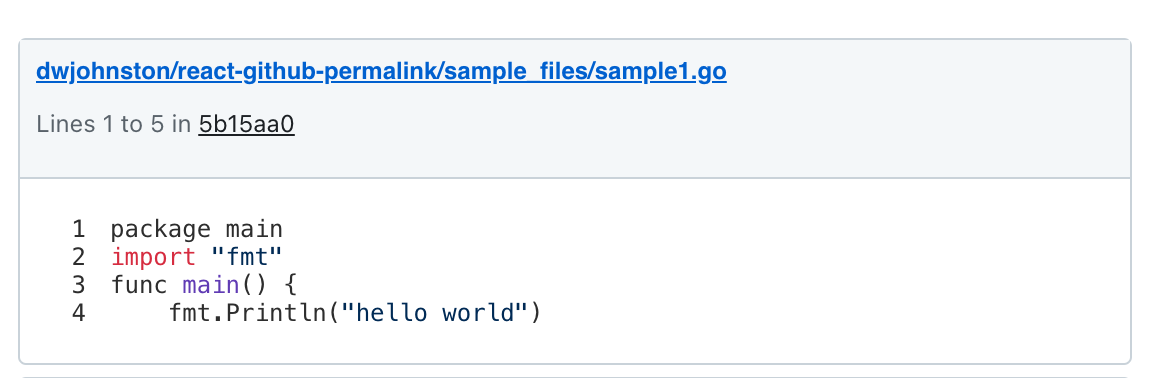
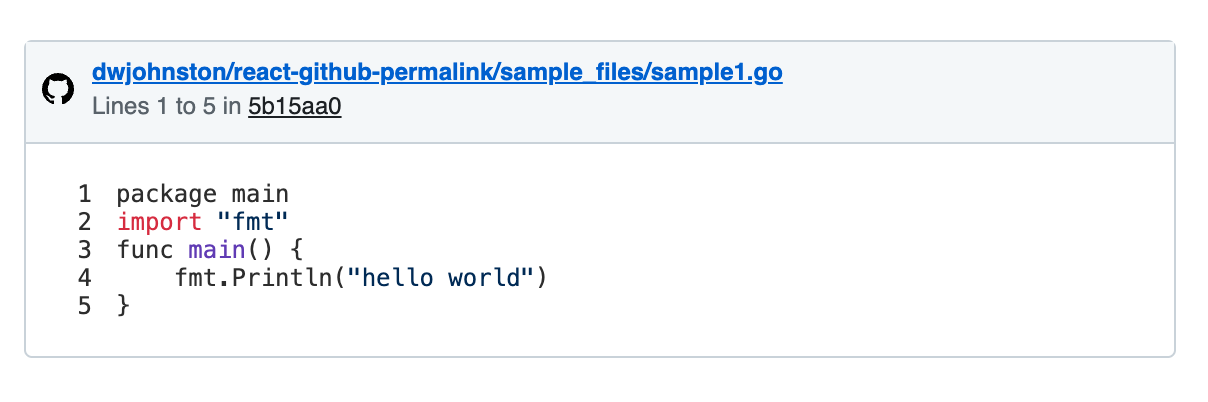
Add github svg, add repo info to GithubIssueLink.

diff --git a/src/GithubIssueLink/GithubIssueLink.tsx b/src/GithubIssueLink/GithubIssueLink.tsx
@@ -4,6 +4,7 @@ import { githubGist } from 'react-syntax-highlighter/dist/cjs/styles/hljs';
 import { exhaustiveFailure } from "../utils/exhaustiveFailure";
 import { GithubPermalinkDataResponse, GithubPermalinkContext, GithubIssueLinkDataResponse } from "../GithubPermalinkContext";
 import { ErrorMessages } from "../ErrorMessages/ErrorMessages";
+import { GithubSvg } from "../GithubSvg/GithubSvg";
 
 type GithubIssueLinkProps = {
   issueLink: string;
@@ -32,13 +33,22 @@ export function GithubIssueLink(props: GithubIssueLinkProps) {
 
   if (data.status === "ok") {
     return <GithubIssueLinkInner {...props} header={<>
-      <p><span className="react-github-issuelink-title">{data.issueTitle}</span><span className="react-github-issuelink-number"> #{data.issueNumber}</span> </p>
+      <div className="react-github-issuelink-repo">
+        <GithubSvg />
+        <p>
+          {data.owner}/{data.repo}
+        </p>
+      </div>
 
-      {data.issueState === "open" ? <div className="react-github-issuelink-status open"><svg aria-hidden="true" height="12" viewBox="0 0 16 16" version="1.1" width="12" data-view-component="true" >
-        <path d="M8 9.5a1.5 1.5 0 1 0 0-3 1.5 1.5 0 0 0 0 3Z"></path><path d="M8 0a8 8 0 1 1 0 16A8 8 0 0 1 8 0ZM1.5 8a6.5 6.5 0 1 0 13 0 6.5 6.5 0 0 0-13 0Z"></path>
-      </svg><span> Open</span></div> : <div className="react-github-issuelink-status closed"><svg aria-hidden="true" height="12" viewBox="0 0 16 16" version="1.1" width="12" data-view-component="true" >
-        <path d="M11.28 6.78a.75.75 0 0 0-1.06-1.06L7.25 8.69 5.78 7.22a.75.75 0 0 0-1.06 1.06l2 2a.75.75 0 0 0 1.06 0l3.5-3.5Z"></path><path d="M16 8A8 8 0 1 1 0 8a8 8 0 0 1 16 0Zm-1.5 0a6.5 6.5 0 1 0-13 0 6.5 6.5 0 0 0 13 0Z"></path>
-      </svg><span> Closed</span></div>}
+      <div className="react-github-issuelink-body">
+        <p><span className="react-github-issuelink-title">{data.issueTitle}</span><span className="react-github-issuelink-number"> #{data.issueNumber}</span> </p>
+
+        {data.issueState === "open" ? <div className="react-github-issuelink-status open"><svg aria-hidden="true" height="12" viewBox="0 0 16 16" version="1.1" width="12" data-view-component="true" >
+          <path d="M8 9.5a1.5 1.5 0 1 0 0-3 1.5 1.5 0 0 0 0 3Z"></path><path d="M8 0a8 8 0 1 1 0 16A8 8 0 0 1 8 0ZM1.5 8a6.5 6.5 0 1 0 13 0 6.5 6.5 0 0 0-13 0Z"></path>
+        </svg><span> Open</span></div> : <div className="react-github-issuelink-status closed"><svg aria-hidden="true" height="12" viewBox="0 0 16 16" version="1.1" width="12" data-view-component="true" >
+          <path d="M11.28 6.78a.75.75 0 0 0-1.06-1.06L7.25 8.69 5.78 7.22a.75.75 0 0 0-1.06 1.06l2 2a.75.75 0 0 0 1.06 0l3.5-3.5Z"></path><path d="M16 8A8 8 0 1 1 0 8a8 8 0 0 1 16 0Zm-1.5 0a6.5 6.5 0 1 0-13 0 6.5 6.5 0 0 0 13 0Z"></path>
+        </svg><span> Closed</span></div>}
+      </div>
     </>}>
     </GithubIssueLinkInner>
 
@@ -55,7 +65,11 @@ function GithubIssueLinkInner(props: PropsWithChildren<{
 } & GithubIssueLinkProps>) {
   return <div className={`react-github-issuelink ${props.className}`}>
     <a href={props.issueLink}>
+
+
       <div className="header">
+
+
         {props.header ?? <a href={props.issueLink} className="file-link">{props.issueLink}</a>}
       </div>
       {props.children}

diff --git a/src/GithubPermalink/GithubPermalink.tsx b/src/GithubPermalink/GithubPermalink.tsx
@@ -1,14 +1,15 @@
-import { PropsWithChildren,  useContext, useEffect, useState } from "react";
+import { PropsWithChildren, useContext, useEffect, useState } from "react";
 import ReactSyntaxHighlighter from "react-syntax-highlighter";
 import { githubGist } from 'react-syntax-highlighter/dist/cjs/styles/hljs';
 import { GithubPermalinkDataResponse, GithubPermalinkContext } from "../GithubPermalinkContext";
 import { ErrorMessages } from "../ErrorMessages/ErrorMessages";
+import { GithubSvg } from "../GithubSvg/GithubSvg";
 
 type GithubPermalinkProps = {
   permalink: string;
   className?: string;
-}; 
-export function GithubPermalink(props: GithubPermalinkProps ) {
+};
+export function GithubPermalink(props: GithubPermalinkProps) {
 
   const { permalink } = props;
   const [data, setData] = useState(null as null | GithubPermalinkDataResponse)
@@ -42,18 +43,24 @@ export function GithubPermalink(props: GithubPermalinkProps ) {
 
   }
 
-    return <GithubPermalinkInner {...props}>
-      <ErrorMessages data={data}/>
-    </GithubPermalinkInner>
+  return <GithubPermalinkInner {...props}>
+    <ErrorMessages data={data} />
+  </GithubPermalinkInner>
 }
 
 
 function GithubPermalinkInner(props: PropsWithChildren<{
   header?: React.ReactNode
-}  & GithubPermalinkProps>) {
+} & GithubPermalinkProps>) {
   return <div className={`react-github-permalink ${props.className}`}>
     <div className="header">
-      {props.header ??  <a href={props.permalink} className="file-link">{props.permalink}</a>}
+      <div>
+
+        <GithubSvg />
+      </div>
+      <div>
+        {props.header ?? <a href={props.permalink} className="file-link">{props.permalink}</a>}
+      </div>
     </div>
     {props.children}
   </div>

diff --git a/src/GithubPermalink/github-permalink.css b/src/GithubPermalink/github-permalink.css
@@ -1,5 +1,5 @@
 
-.react-github-issuelink .header {
+.react-github-issuelink .react-github-issuelink-body {
     font-size: 16px;
     color: rgb(31, 35, 40);
     display: flex; 
@@ -8,6 +8,9 @@
     align-items: center;
     text-decoration: none;
 }
+.react-github-issuelink-body p {
+    margin: 0;
+}
 
 .react-github-issuelink a {
     text-decoration: none;
@@ -15,13 +18,24 @@
 
 }
 
-.react-github-issuelink a:hover .react-github-issuelink-title, .react-github-issuelink a:hover .react-github-issuelink-number  {
+.react-github-issuelink a:hover .react-github-issuelink-title,
+ .react-github-issuelink a:hover .react-github-issuelink-number  {
     text-decoration: underline;
 }
 
 
 .react-github-issuelink-number {
     color: rgb(101, 109, 118);
+}
+
+.react-github-issuelink-repo {
+    font-size: 12px; 
+    font-weight: bold;
+    display: flex;
+    flex-flow: row nowrap;
+    align-items: center;
+    gap: 0.75em;
+    text-decoration: underline;
 }
 
 .react-github-issuelink-status  {
@@ -68,6 +82,14 @@
     border-color: rgb(208, 215, 222); 
     border-style: solid; 
     border-width: 1px; 
+
+}
+
+.react-github-permalink .header {
+    display: flex; 
+    flex-flow: row nowrap;
+    gap: 0.75em;
+    align-items: center;
 }
 
 .react-github-permalink .header, .react-github-issuelink .header{

diff --git a/src/GithubSvg/GithubSvg.tsx b/src/GithubSvg/GithubSvg.tsx
@@ -1,0 +1,10 @@
+export function GithubSvg(props: {
+    size?: number
+}) {
+
+    const size = props.size ?? 16; 
+
+    return <svg height={`${size}`} width={`${size}`}aria-hidden="true" viewBox="0 0 16 16" version="1.1">
+    <path d="M8 0c4.42 0 8 3.58 8 8a8.013 8.013 0 0 1-5.45 7.59c-.4.08-.55-.17-.55-.38 0-.27.01-1.13.01-2.2 0-.75-.25-1.23-.54-1.48 1.78-.2 3.65-.88 3.65-3.95 0-.88-.31-1.59-.82-2.15.08-.2.36-1.02-.08-2.12 0 0-.67-.22-2.2.82-.64-.18-1.32-.27-2-.27-.68 0-1.36.09-2 .27-1.53-1.03-2.2-.82-2.2-.82-.44 1.1-.16 1.92-.08 2.12-.51.56-.82 1.28-.82 2.15 0 3.06 1.86 3.75 3.64 3.95-.23.2-.44.55-.51 1.07-.46.21-1.61.55-2.33-.66-.15-.24-.6-.83-1.23-.82-.67.01-.27.38.01.53.34.19.73.9.82 1.13.16.45.68 1.31 2.69.94 0 .67.01 1.3.01 1.49 0 .21-.15.45-.55.38A7.995 7.995 0 0 1 0 8c0-4.42 3.58-8 8-8Z"></path>
+</svg>
+}

diff --git a/src/GithubPermalinkContext.tsx b/src/GithubPermalinkContext.tsx
@@ -29,6 +29,8 @@ export type GithubIssueLinkDataResponse = {
     issueTitle: string; 
     issueNumber: string; 
     issueState: "open" | "closed"; 
+    owner: string; 
+    repo: string; 
     status: "ok"
 } | ErrorResponses; 
 
@@ -114,7 +116,9 @@ async function defaultGetIssueFn(issueLink: string, githubToken?: string): Promi
         issueTitle: issueJson.title,
         issueNumber: config.issue,
         issueState: issueJson.state,
-        status: "ok"
+        status: "ok", 
+        owner: config.owner, 
+        repo: config.repo
     }
 }
 

diff --git a/src/GithubIssueLink/GithubIssueLink.stories.tsx b/src/GithubIssueLink/GithubIssueLink.stories.tsx
@@ -28,6 +28,6 @@ export const WithBackground: Story = {
 
 
 export const WithToken: Story = {
-  render: () => <GithubPermalinkProvider githubToken={process.env.STORYBOOK_GITHUB_TOKEN}> <GithubIssueLink issueLink='https://github.com/dwjohnston/react-github-permalink/issues/2' />,</GithubPermalinkProvider>,
+  render: () => <GithubPermalinkProvider githubToken={process.env.STORYBOOK_GITHUB_TOKEN}> <GithubIssueLink issueLink='https://github.com/dwjohnston/react-github-permalink/issues/2' /></GithubPermalinkProvider>,
 
 }

diff --git a/release_notes.md b/release_notes.md
@@ -1,3 +1,9 @@
+## 1.3.0 
+
+Add repo information to GithubIssueLink. 
+
+Add Github SVG to GithubPermalink and GithubIssueLink
+
 ## 1.2.0 
 
 Adds GithubIssueLink. 
